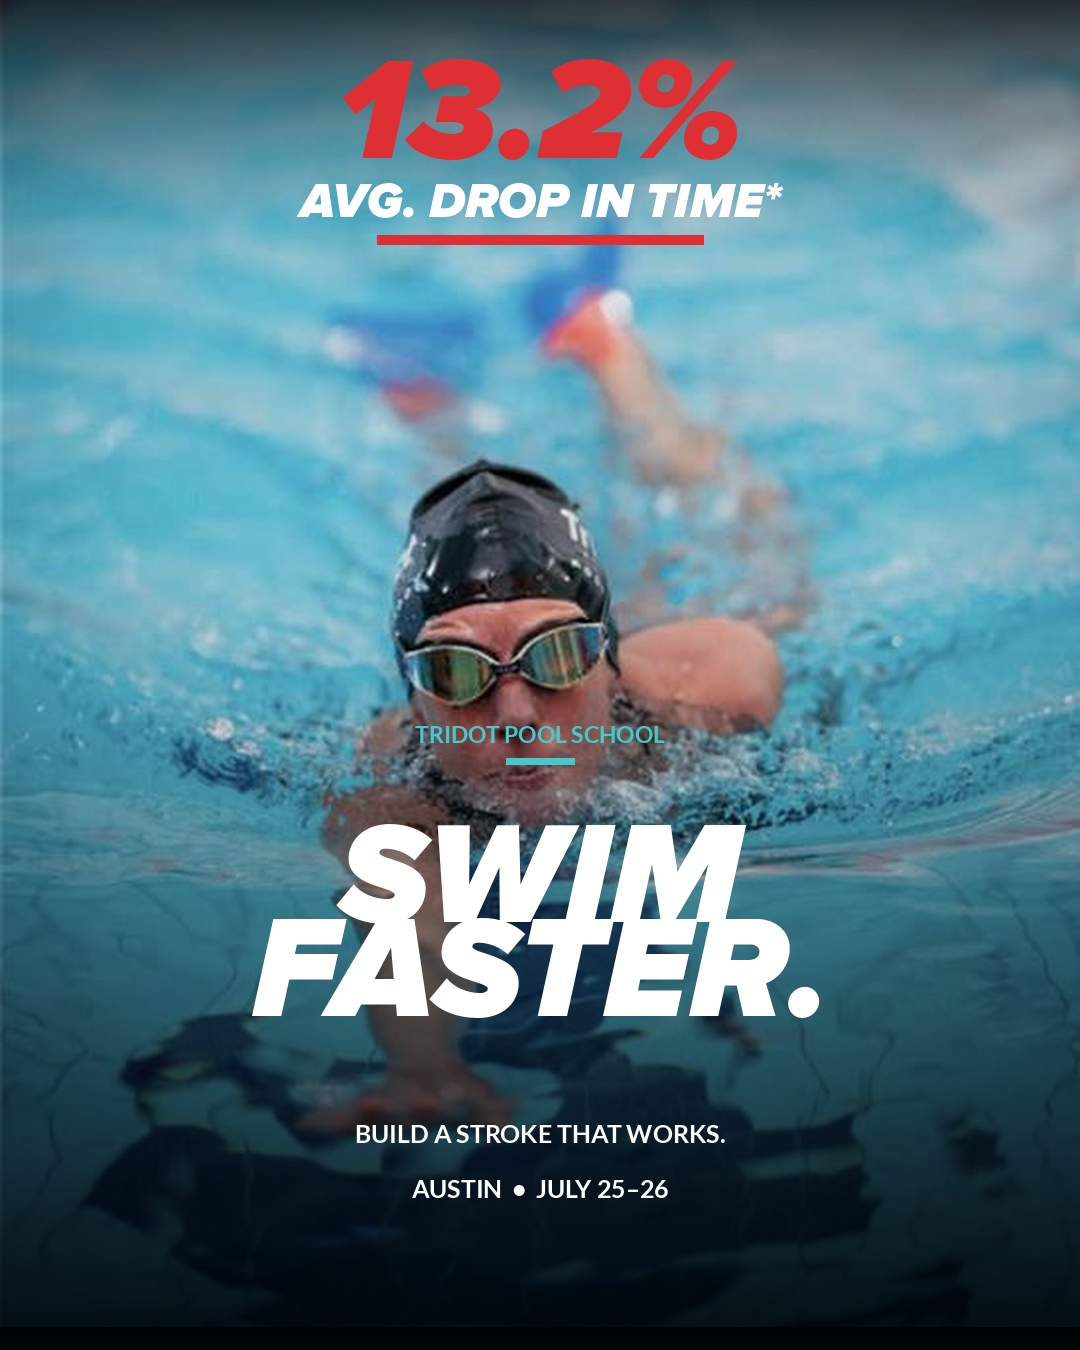
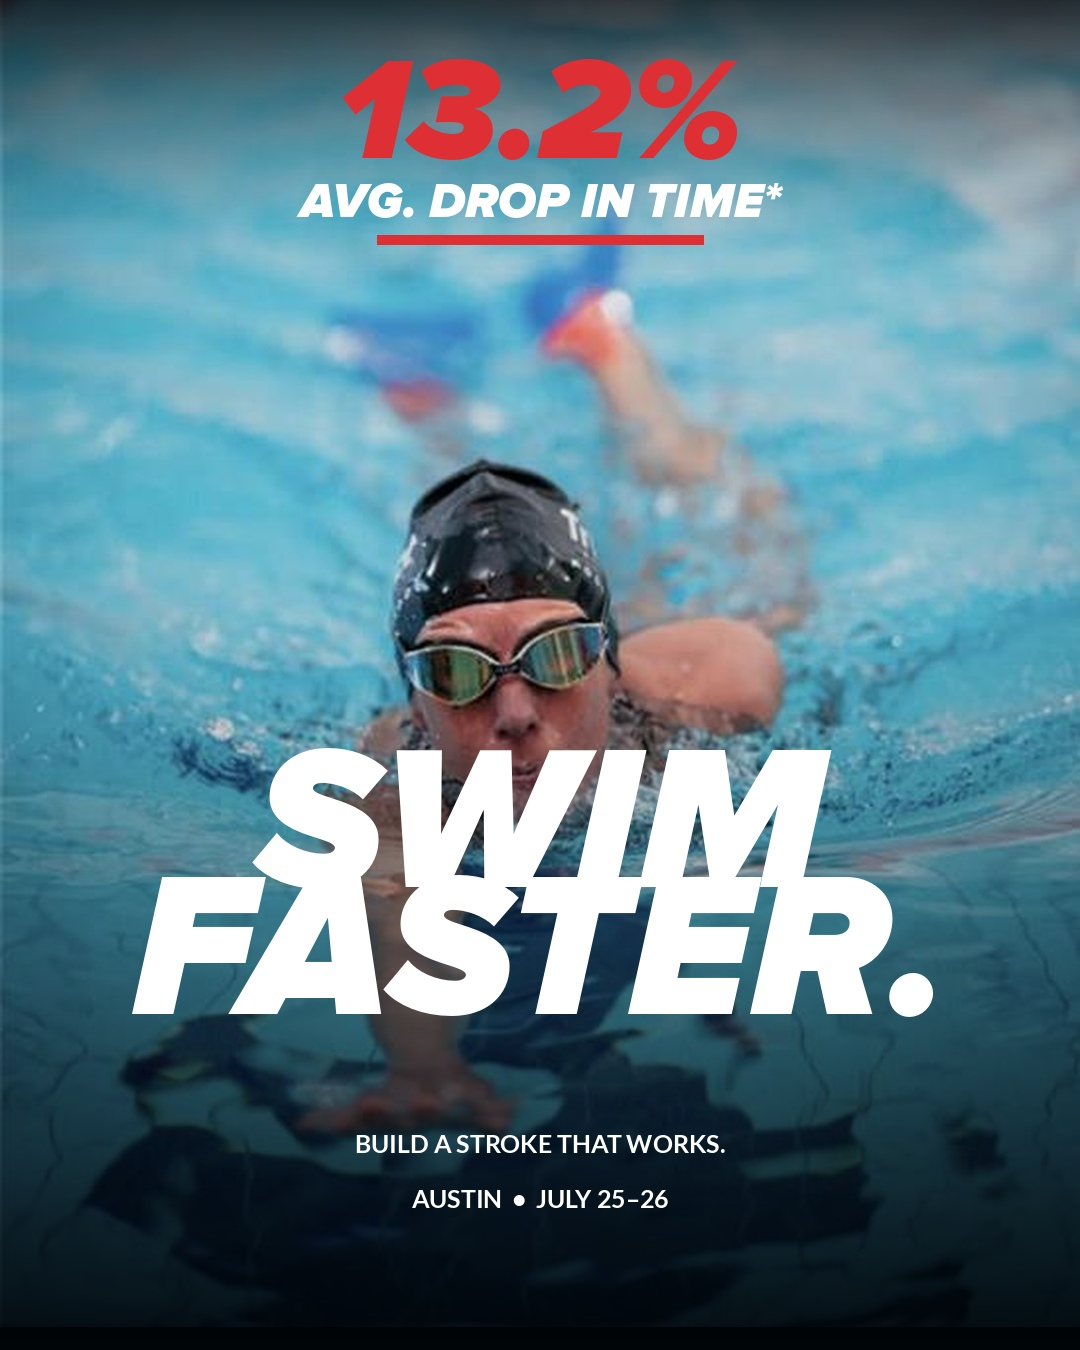
Make Swim Faster full width and remove label

Changed region(s): [[0.1222, 0.5289, 0.8861, 0.7778], [0.3361, 0.8089, 0.6722, 0.9022]]

diff --git a/austin-pool-school-review/index.html b/austin-pool-school-review/index.html
@@ -8,7 +8,7 @@ const posts=[
 ['01-austin-announcement.jpg','EVENT PROMO','Austin: Your Pool School Weekend','Austin swimmers: train in class, on deck, and in the pool at TriDot Pool School.\n\nJuly 25–26, 2026 · Austin Aquatics and Sports Academy · $599\n\nRegister now: tps.tridot.com/pool-school/austin-texas-jul-25-2026'],
 ['02-breakout-swim-plateau.jpg','VALUE','Break out of the dreaded swim plateau','Feeling stuck in the water? Pool School gives you clear feedback, purposeful drills, and a practical plan to take home. Austin is July 25–26.'],
 ['03-weekend-schedule.jpg','EVENT PROMO','A full weekend of swim improvement','Saturday 1–5 PM CST, optional 6:30 PM dinner; Sunday 8 AM–12 PM CST. Join us in Austin July 25–26. Register now.'],
-['04-measure-your-progress.jpg','VALUE','Establish your baseline','You can’t improve what you don’t measure. Pool School starts with your baseline, then turns coaching into actionable next steps.'],
+['04-measure-your-progress.jpg?v=huge-20260710','VALUE','Establish your baseline','You can’t improve what you don’t measure. Pool School starts with your baseline, then turns coaching into actionable next steps.'],
 ['05-save-your-spot.jpg','EVENT PROMO','Save your Austin spot','The next Austin Pool School is July 25–26 at Austin Aquatics and Sports Academy. $599 tuition. Registration is open now.'],
 ['06-community-in-the-water.jpg','EXPERIENCE','Learn. Train. Belong.','Spend the weekend learning alongside athletes who are working toward the same thing: more confidence and more speed in the water.'],
 ['07-coaching-on-deck.jpg','VALUE','Coaching that clicks','Pool School combines classroom learning, pool-deck coaching, and in-water application—so the feedback has a clear next step.'],
